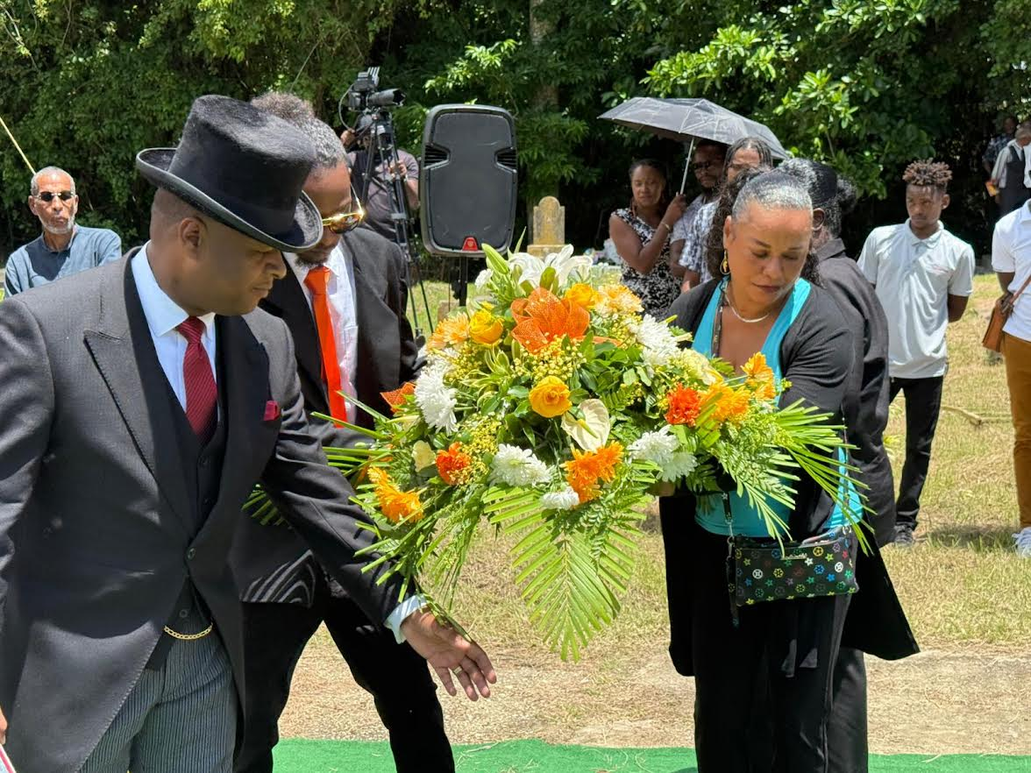
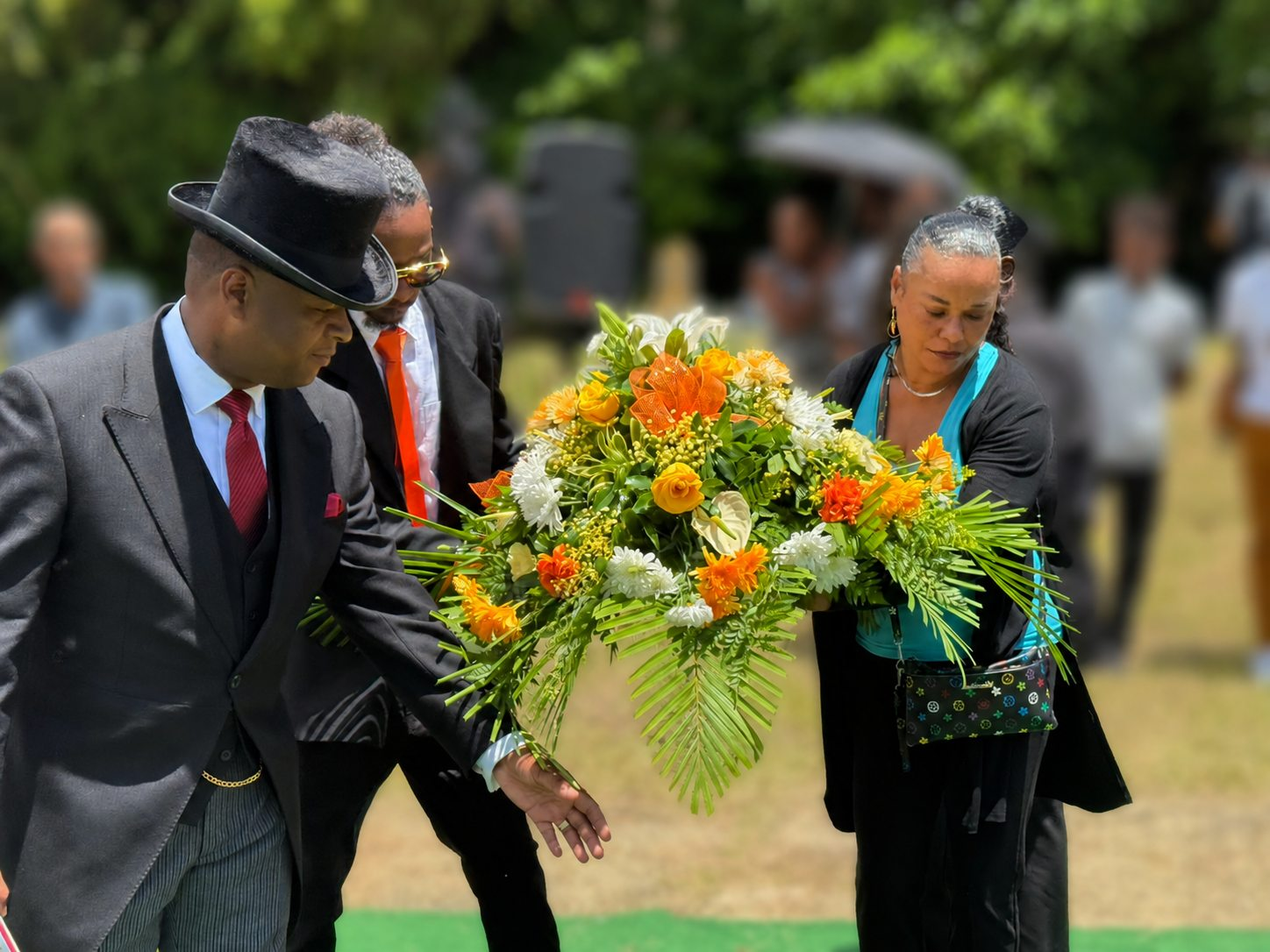
Rebuild casket collection from Sterling's catalogue
Replace the placeholder casket grid with the eight caskets Sterling
actually supplies, in the order the client listed them, each opening
into a lightbox that steps through every finish and angle:

- Gardiner Basic Highlighted Coffin (highlighted, then cherry)
- Alleyne Exquisite Semi Casket (cherry DSC1145, then white)
- Blue & White Flat Top (DSC1139, then cherry DSC1114)
- Barbadian Flat Top Special (cherry with flowers, open, interior)
- Alleyne Special Square Casket (green and white)
- Alleyne Octagon Casket (lilac and purple, cherry with copper handles)
- Local Oval Top Caskets
- Imported Beaded Mahogany Casket

Twenty of the source photographs were incompletely synced and lose
their bottom rows, so those are cropped to the intact area; DSC1122,
1133, 1658, 1662, 1666 and 1668 were too damaged to use.

Also swap in the retouched wreath-laying and committal photographs,
replace the low-resolution services hero with the procession portrait,
correct the spelling of Sheradan Lewis, and lift every burgundy in the
palette by the same curve so the site reads a shade lighter throughout.

diff --git a/caskets.html b/caskets.html
@@ -10,7 +10,7 @@
 <link rel="stylesheet" href="css/styles.css" />
 <meta property="og:title" content="Casket Collection | Sterling Funeral Services" />
 <meta property="og:description" content="View representative casket styles and contact Sterling Funeral Services for current selections and guidance." />
-<meta property="og:image" content="images/caskets/deep-wine.jpg" />
+<meta property="og:image" content="images/caskets/alleyne-octagon-cherry.jpg" />
 <meta name="twitter:card" content="summary_large_image" />
 </head>
 <body>
@@ -43,7 +43,7 @@
 </div>
 <main>
 <section class="page-hero">
-<div class="page-hero-image" style="background-image:url('images/caskets/deep-wine.jpg')"></div>
+<div class="page-hero-image" style="background-image:url('images/caskets/alleyne-octagon-cherry.jpg')"></div>
 <div class="page-hero-shade"></div>
 <div class="page-hero-content">
 <p class="eyebrow light">Casket Collection</p>
@@ -53,7 +53,7 @@
 </section>
 <section class="page-body casket-page">
 <div class="collection-note"><strong>Sterling collection:</strong> These photographs show representative caskets supplied by Sterling. Please contact us to confirm current finishes, specifications, availability and pricing.</div>
-<div class="casket-grid"><article class="casket-card" data-images="images/caskets/deep-wine.jpg|images/caskets/deep-wine-open.jpg"><div class="casket-image"><img src="images/caskets/deep-wine.jpg" alt="Deep Wine Finish casket" /><span>Sterling collection</span></div><div class="casket-info"><div><h3>Deep Wine Finish</h3><p>Polished deep-wine finish &middot; Gold-tone hardware</p></div><a href="https://wa.me/12462349195?text=Hello%20Sterling%2C%20I%20would%20like%20information%20about%20the%20Deep%20Wine%20Finish%20casket%20style." target="_blank" rel="noreferrer" aria-label="Ask about Deep Wine Finish">&#8599;</a></div></article><article class="casket-card" data-images="images/caskets/classic-burgundy.jpg|images/caskets/classic-burgundy-open.jpg"><div class="casket-image"><img src="images/caskets/classic-burgundy.jpg" alt="Classic Burgundy Finish casket" /><span>Sterling collection</span></div><div class="casket-info"><div><h3>Classic Burgundy Finish</h3><p>Rich burgundy finish &middot; Decorative gold-tone hardware</p></div><a href="https://wa.me/12462349195?text=Hello%20Sterling%2C%20I%20would%20like%20information%20about%20the%20Classic%20Burgundy%20Finish%20casket%20style." target="_blank" rel="noreferrer" aria-label="Ask about Classic Burgundy Finish">&#8599;</a></div></article><article class="casket-card" data-images="images/caskets/natural-wood.jpg|images/caskets/natural-wood-open.jpg"><div class="casket-image"><img src="images/caskets/natural-wood.jpg" alt="Natural Wood Finish casket" /><span>Sterling collection</span></div><div class="casket-info"><div><h3>Natural Wood Finish</h3><p>Warm natural grain &middot; Gold-tone hardware</p></div><a href="https://wa.me/12462349195?text=Hello%20Sterling%2C%20I%20would%20like%20information%20about%20the%20Natural%20Wood%20Finish%20casket%20style." target="_blank" rel="noreferrer" aria-label="Ask about Natural Wood Finish">&#8599;</a></div></article><article class="casket-card" data-images="images/caskets/rich-mahogany.jpg|images/caskets/rich-mahogany-open.jpg"><div class="casket-image"><img src="images/caskets/rich-mahogany.jpg" alt="Rich Mahogany Finish casket" /><span>Sterling collection</span></div><div class="casket-info"><div><h3>Rich Mahogany Finish</h3><p>Deep mahogany finish &middot; Gold-tone hardware</p></div><a href="https://wa.me/12462349195?text=Hello%20Sterling%2C%20I%20would%20like%20information%20about%20the%20Rich%20Mahogany%20Finish%20casket%20style." target="_blank" rel="noreferrer" aria-label="Ask about Rich Mahogany Finish">&#8599;</a></div></article><article class="casket-card" data-images="images/caskets/blue-ivory.jpg"><div class="casket-image"><img src="images/caskets/blue-ivory.jpg" alt="Blue &amp; Ivory Finish casket" /><span>Sterling collection</span></div><div class="casket-info"><div><h3>Blue &amp; Ivory Finish</h3><p>Blue and ivory finish &middot; Silver-tone hardware</p></div><a href="https://wa.me/12462349195?text=Hello%20Sterling%2C%20I%20would%20like%20information%20about%20the%20Blue%20%26amp%3B%20Ivory%20Finish%20casket%20style." target="_blank" rel="noreferrer" aria-label="Ask about Blue &amp; Ivory Finish">&#8599;</a></div></article><article class="casket-card" data-images="images/caskets/ruby-red.jpg|images/caskets/ruby-red-open.jpg"><div class="casket-image"><img src="images/caskets/ruby-red.jpg" alt="Ruby Red Finish casket" /><span>Sterling collection</span></div><div class="casket-info"><div><h3>Ruby Red Finish</h3><p>Vivid ruby-red finish &middot; Gold-tone hardware</p></div><a href="https://wa.me/12462349195?text=Hello%20Sterling%2C%20I%20would%20like%20information%20about%20the%20Ruby%20Red%20Finish%20casket%20style." target="_blank" rel="noreferrer" aria-label="Ask about Ruby Red Finish">&#8599;</a></div></article><article class="casket-card" data-images="images/caskets/purple.jpg"><div class="casket-image"><img src="images/caskets/purple.jpg" alt="Purple Finish casket" /><span>Sterling collection</span></div><div class="casket-info"><div><h3>Purple Finish</h3><p>Purple finish &middot; Silver-tone hardware</p></div><a href="https://wa.me/12462349195?text=Hello%20Sterling%2C%20I%20would%20like%20information%20about%20the%20Purple%20Finish%20casket%20style." target="_blank" rel="noreferrer" aria-label="Ask about Purple Finish">&#8599;</a></div></article><article class="casket-card" data-images="images/caskets/traditional-mahogany.jpg|images/caskets/traditional-mahogany-open.jpg"><div class="casket-image"><img src="images/caskets/traditional-mahogany.jpg" alt="Traditional Mahogany Finish casket" /><span>Sterling collection</span></div><div class="casket-info"><div><h3>Traditional Mahogany Finish</h3><p>Deep wood finish &middot; Traditional detailing</p></div><a href="https://wa.me/12462349195?text=Hello%20Sterling%2C%20I%20would%20like%20information%20about%20the%20Traditional%20Mahogany%20Finish%20casket%20style." target="_blank" rel="noreferrer" aria-label="Ask about Traditional Mahogany Finish">&#8599;</a></div></article><article class="casket-card" data-images="images/caskets/white.jpg"><div class="casket-image"><img src="images/caskets/white.jpg" alt="White Finish casket" /><span>Sterling collection</span></div><div class="casket-info"><div><h3>White Finish</h3><p>White finish &middot; Gold-tone hardware</p></div><a href="https://wa.me/12462349195?text=Hello%20Sterling%2C%20I%20would%20like%20information%20about%20the%20White%20Finish%20casket%20style." target="_blank" rel="noreferrer" aria-label="Ask about White Finish">&#8599;</a></div></article><article class="casket-card" data-images="images/caskets/green-ivory.jpg|images/caskets/green-ivory-open.jpg"><div class="casket-image"><img src="images/caskets/green-ivory.jpg" alt="Green &amp; Ivory Finish casket" /><span>Sterling collection</span></div><div class="casket-info"><div><h3>Green &amp; Ivory Finish</h3><p>Green and ivory finish &middot; Silver-tone hardware</p></div><a href="https://wa.me/12462349195?text=Hello%20Sterling%2C%20I%20would%20like%20information%20about%20the%20Green%20%26amp%3B%20Ivory%20Finish%20casket%20style." target="_blank" rel="noreferrer" aria-label="Ask about Green &amp; Ivory Finish">&#8599;</a></div></article></div>
+<div class="casket-grid"><article class="casket-card" data-images="images/caskets/gardiner-highlighted.jpg|images/caskets/gardiner-highlighted-2.jpg|images/caskets/gardiner-highlighted-open.jpg|images/caskets/gardiner-highlighted-detail.jpg|images/caskets/gardiner-cherry.jpg|images/caskets/gardiner-cherry-open.jpg"><div class="casket-image"><img src="images/caskets/gardiner-highlighted.jpg" alt="Gardiner Basic Highlighted Coffin" loading="lazy" /><span>Sterling collection</span></div><div class="casket-info"><div><h3>Gardiner Basic Highlighted Coffin</h3><p>Highlighted two-tone finish · Also shown in cherry finish</p></div><a href="https://wa.me/12462349195?text=Hello%20Sterling%2C%20I%20would%20like%20information%20about%20the%20Gardiner%20Basic%20Highlighted%20Coffin." target="_blank" rel="noreferrer" aria-label="Ask about Gardiner Basic Highlighted Coffin">&#8599;</a></div></article><article class="casket-card" data-images="images/caskets/alleyne-exquisite-cherry.jpg|images/caskets/alleyne-exquisite-cherry-2.jpg|images/caskets/alleyne-exquisite-cherry-3.jpg|images/caskets/alleyne-exquisite-cherry-open.jpg|images/caskets/alleyne-exquisite-white.jpg"><div class="casket-image"><img src="images/caskets/alleyne-exquisite-cherry.jpg" alt="Alleyne Exquisite Semi Casket" loading="lazy" /><span>Sterling collection</span></div><div class="casket-info"><div><h3>Alleyne Exquisite Semi Casket</h3><p>Cherry finish · Also available in white</p></div><a href="https://wa.me/12462349195?text=Hello%20Sterling%2C%20I%20would%20like%20information%20about%20the%20Alleyne%20Exquisite%20Semi%20Casket." target="_blank" rel="noreferrer" aria-label="Ask about Alleyne Exquisite Semi Casket">&#8599;</a></div></article><article class="casket-card" data-images="images/caskets/flat-top-blue-white.jpg|images/caskets/flat-top-blue-white-2.jpg|images/caskets/flat-top-blue-white-detail.jpg|images/caskets/flat-top-cherry.jpg|images/caskets/flat-top-cherry-open.jpg|images/caskets/flat-top-cherry-detail.jpg"><div class="casket-image"><img src="images/caskets/flat-top-blue-white.jpg" alt="Blue &amp; White Flat Top" loading="lazy" /><span>Sterling collection</span></div><div class="casket-info"><div><h3>Blue &amp; White Flat Top</h3><p>One of the most popular choices in Barbados · Also shown in cherry finish</p></div><a href="https://wa.me/12462349195?text=Hello%20Sterling%2C%20I%20would%20like%20information%20about%20the%20Blue%20%26%20White%20Flat%20Top." target="_blank" rel="noreferrer" aria-label="Ask about Blue &amp; White Flat Top">&#8599;</a></div></article><article class="casket-card" data-images="images/caskets/flat-top-special-cherry.jpg|images/caskets/flat-top-special-open.jpg|images/caskets/flat-top-special-interior.jpg"><div class="casket-image"><img src="images/caskets/flat-top-special-cherry.jpg" alt="Barbadian Flat Top Special" loading="lazy" /><span>Sterling collection</span></div><div class="casket-info"><div><h3>Barbadian Flat Top Special</h3><p>Cherry finish · Sunburst interior · Gold-tone hardware</p></div><a href="https://wa.me/12462349195?text=Hello%20Sterling%2C%20I%20would%20like%20information%20about%20the%20Barbadian%20Flat%20Top%20Special." target="_blank" rel="noreferrer" aria-label="Ask about Barbadian Flat Top Special">&#8599;</a></div></article><article class="casket-card" data-images="images/caskets/alleyne-square-green-white.jpg"><div class="casket-image"><img src="images/caskets/alleyne-square-green-white.jpg" alt="Alleyne Special Square Casket" loading="lazy" /><span>Sterling collection</span></div><div class="casket-info"><div><h3>Alleyne Special Square Casket</h3><p>Green and white finish · Silver-tone hardware</p></div><a href="https://wa.me/12462349195?text=Hello%20Sterling%2C%20I%20would%20like%20information%20about%20the%20Alleyne%20Special%20Square%20Casket." target="_blank" rel="noreferrer" aria-label="Ask about Alleyne Special Square Casket">&#8599;</a></div></article><article class="casket-card" data-images="images/caskets/alleyne-octagon-lilac-open.jpg|images/caskets/alleyne-octagon-lilac-open-2.jpg|images/caskets/alleyne-octagon-cherry.jpg|images/caskets/alleyne-octagon-cherry-2.jpg|images/caskets/alleyne-octagon-cherry-open.jpg|images/caskets/alleyne-octagon-cherry-open-2.jpg|images/caskets/alleyne-octagon-cherry-detail.jpg"><div class="casket-image"><img src="images/caskets/alleyne-octagon-lilac-open.jpg" alt="Alleyne Octagon Casket" loading="lazy" /><span>Sterling collection</span></div><div class="casket-info"><div><h3>Alleyne Octagon Casket</h3><p>Lilac and purple · Also shown in cherry with copper handles</p></div><a href="https://wa.me/12462349195?text=Hello%20Sterling%2C%20I%20would%20like%20information%20about%20the%20Alleyne%20Octagon%20Casket." target="_blank" rel="noreferrer" aria-label="Ask about Alleyne Octagon Casket">&#8599;</a></div></article><article class="casket-card" data-images="images/caskets/oval-top-mahogany.jpg|images/caskets/oval-top-white.jpg|images/caskets/oval-top-purple-gold.jpg"><div class="casket-image"><img src="images/caskets/oval-top-mahogany.jpg" alt="Local Oval Top Caskets" loading="lazy" /><span>Sterling collection</span></div><div class="casket-info"><div><h3>Local Oval Top Caskets</h3><p>Locally crafted oval top · Mahogany, white and purple finishes</p></div><a href="https://wa.me/12462349195?text=Hello%20Sterling%2C%20I%20would%20like%20information%20about%20the%20Local%20Oval%20Top%20Caskets." target="_blank" rel="noreferrer" aria-label="Ask about Local Oval Top Caskets">&#8599;</a></div></article><article class="casket-card" data-images="images/caskets/beaded-mahogany.jpg|images/caskets/beaded-mahogany-open.jpg|images/caskets/beaded-mahogany-detail.jpg"><div class="casket-image"><img src="images/caskets/beaded-mahogany.jpg" alt="Imported Beaded Mahogany Casket" loading="lazy" /><span>Sterling collection</span></div><div class="casket-info"><div><h3>Imported Beaded Mahogany Casket</h3><p>Imported mahogany · Hand-beaded detailing · Gold-tone hardware</p></div><a href="https://wa.me/12462349195?text=Hello%20Sterling%2C%20I%20would%20like%20information%20about%20the%20Imported%20Beaded%20Mahogany%20Casket." target="_blank" rel="noreferrer" aria-label="Ask about Imported Beaded Mahogany Casket">&#8599;</a></div></article></div>
 </section>
 <div id="casket-lightbox" class="lightbox" aria-hidden="true">
 <div class="lightbox-backdrop"></div>

diff --git a/css/styles.css b/css/styles.css
@@ -1,5 +1,5 @@
 @import url('https://fonts.googleapis.com/css2?family=DM+Sans:wght@300;400;500;600&family=Playfair+Display:ital,wght@0,500;1,500&display=swap');
-:root{--wine:#4a0d1c;--wine-deep:#26050d;--wine-soft:#6c1a2d;--ink:#2b171b;--gold:#c5a15a;--gold-light:#e1ca96;--cream:#f2ece4;--paper:#fbf8f4;--muted:#76686a}
+:root{--wine:#67182d;--wine-deep:#3a0f1a;--wine-soft:#932a43;--ink:#2b171b;--gold:#c5a15a;--gold-light:#e1ca96;--cream:#f2ece4;--paper:#fbf8f4;--muted:#76686a}
 *{box-sizing:border-box}
 html{scroll-behavior:smooth}
 body{margin:0;color:var(--ink);background:var(--paper);font-family:'DM Sans',Arial,sans-serif;font-weight:300}
@@ -11,7 +11,7 @@ img{max-width:100%}
 .topbar{height:35px;padding:0 5vw;display:flex;align-items:center;justify-content:center;gap:35px;color:#d9c9cc;background:var(--wine-deep);font-size:10px;letter-spacing:.09em;text-transform:uppercase}
 .topbar p{margin:0}
 .topbar a{color:var(--gold-light)}
-.site-header{height:92px;padding:0 5vw;display:flex;align-items:center;justify-content:space-between;background:rgba(74,13,28,.99);color:white;position:relative;z-index:20;border-bottom:1px solid rgba(255,255,255,.1)}
+.site-header{height:92px;padding:0 5vw;display:flex;align-items:center;justify-content:space-between;background:rgba(103,26,45,.99);color:white;position:relative;z-index:20;border-bottom:1px solid rgba(255,255,255,.1)}
 .brand{display:flex;align-items:center;min-width:200px}
 .brand-logo{height:48px;width:auto;display:block}
 .desktop-nav{display:flex;gap:2.1vw;align-items:center}
@@ -41,10 +41,10 @@ h1 em,h2 em{color:var(--gold-light);font-weight:500}
 
 /* hero */
 .hero{min-height:680px;height:calc(100vh - 127px);color:white;position:relative;display:flex;align-items:center;overflow:hidden;border-bottom:4px solid #b88a43}
-.hero:after{content:"";position:absolute;inset:auto 0 0;height:180px;background:linear-gradient(0deg,rgba(31,2,9,.42),transparent);pointer-events:none}
+.hero:after{content:"";position:absolute;inset:auto 0 0;height:180px;background:linear-gradient(0deg,rgba(49,12,21,.42),transparent);pointer-events:none}
 .hero-image,.hero-shade{position:absolute;inset:0}
 .hero-image{background:url('../images/sterling-home-banner.webp') center/cover;transform:scale(1.015);filter:saturate(.9) contrast(1.03)}
-.hero-shade{background:radial-gradient(circle at 92% 43%,rgba(197,161,90,.08),transparent 16%),linear-gradient(90deg,rgba(39,2,11,.995) 0%,rgba(63,8,22,.995) 80%,rgba(55,6,19,.84) 88%,rgba(42,3,13,.2) 98%),linear-gradient(0deg,rgba(39,2,11,.38),transparent 55%)}
+.hero-shade{background:radial-gradient(circle at 92% 43%,rgba(197,161,90,.08),transparent 16%),linear-gradient(90deg,rgba(59,12,23,.995) 0%,rgba(90,19,37,.995) 80%,rgba(79,17,33,.84) 88%,rgba(63,13,26,.2) 98%),linear-gradient(0deg,rgba(59,12,23,.38),transparent 55%)}
 .hero-frame{position:absolute;z-index:2;inset:24px;border:1px solid rgba(225,202,150,.42);pointer-events:none}
 .hero-frame:before,.hero-frame:after{content:"";position:absolute;width:54px;height:54px;border-color:#d5b56e}
 .hero-frame:before{top:-1px;left:-1px;border-top:2px solid;border-left:2px solid}
@@ -55,7 +55,7 @@ h1 em,h2 em{color:var(--gold-light);font-weight:500}
 .hero-actions{display:flex;gap:14px;align-items:center;flex-wrap:wrap}
 .hero-actions .page-link{font-size:9px;text-transform:uppercase;letter-spacing:.14em;margin-left:10px;border-bottom:1px solid var(--gold);padding:12px 0}
 .hero-actions .page-link span{color:var(--gold-light);margin-left:14px}
-.hero-monogram{position:absolute;z-index:3;right:max(8vw,calc((100vw - 1180px)/2));top:50%;width:188px;height:188px;border:1px solid rgba(225,202,150,.68);border-radius:50%;transform:translateY(-50%);display:flex;flex-direction:column;align-items:center;justify-content:center;background:rgba(45,3,13,.18);box-shadow:0 0 0 11px rgba(255,255,255,.035),inset 0 0 50px rgba(37,0,9,.28);backdrop-filter:blur(2px)}
+.hero-monogram{position:absolute;z-index:3;right:max(8vw,calc((100vw - 1180px)/2));top:50%;width:188px;height:188px;border:1px solid rgba(225,202,150,.68);border-radius:50%;transform:translateY(-50%);display:flex;flex-direction:column;align-items:center;justify-content:center;background:rgba(67,13,26,.18);box-shadow:0 0 0 11px rgba(255,255,255,.035),inset 0 0 50px rgba(56,9,21,.28);backdrop-filter:blur(2px)}
 .hero-monogram:before,.hero-monogram:after{content:"";position:absolute;top:50%;width:38px;height:1px;background:#d7b36a}
 .hero-monogram:before{left:-19px}
 .hero-monogram:after{right:-19px}
@@ -90,7 +90,7 @@ h1 em,h2 em{color:var(--gold-light);font-weight:500}
 .page-hero{min-height:475px;color:white;position:relative;display:flex;align-items:center;overflow:hidden}
 .page-hero-image,.page-hero-shade{position:absolute;inset:0}
 .page-hero-image{background-size:cover;background-position:center;filter:saturate(.65)}
-.page-hero-shade{background:linear-gradient(90deg,rgba(48,4,14,.95),rgba(74,13,28,.68) 55%,rgba(74,13,28,.2))}
+.page-hero-shade{background:linear-gradient(90deg,rgba(70,14,27,.95),rgba(103,26,45,.68) 55%,rgba(103,26,45,.2))}
 .page-hero-content{width:90%;max-width:1280px;margin:0 auto;position:relative;z-index:2}
 .page-hero-content p:last-child{max-width:560px;color:#eadfe1;line-height:1.8;font-size:14px;margin:25px 0 0}
 .page-body{padding:100px max(5vw,calc((100vw - 1180px)/2))}
@@ -121,7 +121,7 @@ h1 em,h2 em{color:var(--gold-light);font-weight:500}
 .casket-image{height:300px;overflow:hidden;position:relative;background:linear-gradient(145deg,#f7f2eb,#ebe0d4)}
 .casket-image img{width:100%;height:100%;object-fit:contain;object-position:center;display:block;transition:transform .35s ease}
 .casket-card:hover .casket-image img{transform:scale(1.025)}
-.casket-image span{position:absolute;top:18px;left:18px;background:rgba(74,13,28,.9);color:#fff;padding:8px 11px;text-transform:uppercase;font-size:7px;letter-spacing:.16em}
+.casket-image span{position:absolute;top:18px;left:18px;background:rgba(103,26,45,.9);color:#fff;padding:8px 11px;text-transform:uppercase;font-size:7px;letter-spacing:.16em}
 .casket-info{padding:24px;border:1px solid #ddd1ca;border-top:0;display:flex;justify-content:space-between;align-items:center}
 .casket-info h3{font:500 20px 'Playfair Display',serif;margin:0}
 .casket-info p{font-size:10px;color:var(--muted);margin:7px 0 0}
@@ -129,12 +129,12 @@ h1 em,h2 em{color:var(--gold-light);font-weight:500}
 .casket-image{cursor:pointer}
 .lightbox{position:fixed;inset:0;z-index:100;display:none;align-items:center;justify-content:center;padding:24px}
 .lightbox.open{display:flex}
-.lightbox-backdrop{position:absolute;inset:0;background:rgba(20,2,7,.88)}
+.lightbox-backdrop{position:absolute;inset:0;background:rgba(35,12,18,.88)}
 .lightbox-inner{position:relative;z-index:1;width:min(880px,92vw);max-height:92vh;overflow:auto;background:var(--paper);box-shadow:0 30px 80px rgba(0,0,0,.5)}
-.lightbox-close{position:absolute;top:14px;right:14px;z-index:2;width:38px;height:38px;border:1px solid rgba(255,255,255,.5);background:rgba(20,2,7,.55);color:#fff;font-size:20px;line-height:1;border-radius:50%;cursor:pointer}
+.lightbox-close{position:absolute;top:14px;right:14px;z-index:2;width:38px;height:38px;border:1px solid rgba(255,255,255,.5);background:rgba(35,12,18,.55);color:#fff;font-size:20px;line-height:1;border-radius:50%;cursor:pointer}
 .lightbox-image{background:linear-gradient(145deg,#f7f2eb,#ebe0d4);display:grid;place-items:center;min-height:340px;padding:20px}
 .lightbox-image img{max-width:100%;max-height:56vh;object-fit:contain}
-.lightbox-prev,.lightbox-next{position:absolute;top:calc(28vh + 20px);transform:translateY(-50%);z-index:2;width:44px;height:44px;border-radius:50%;border:1px solid rgba(255,255,255,.6);background:rgba(20,2,7,.55);color:#fff;font-size:18px;cursor:pointer}
+.lightbox-prev,.lightbox-next{position:absolute;top:calc(28vh + 20px);transform:translateY(-50%);z-index:2;width:44px;height:44px;border-radius:50%;border:1px solid rgba(255,255,255,.6);background:rgba(35,12,18,.55);color:#fff;font-size:18px;cursor:pointer}
 .lightbox-prev{left:14px}
 .lightbox-next{right:14px}
 .lightbox-caption{padding:26px 30px 30px;text-align:center}
@@ -174,7 +174,7 @@ h1 em,h2 em{color:var(--gold-light);font-weight:500}
 
 /* obituaries (static, no records yet) */
 .obituary-index{background:var(--cream)}
-.obituary-empty{margin-top:48px;padding:70px 30px;border:1px solid rgba(83,0,24,.16);background:rgba(255,255,255,.58);text-align:center}
+.obituary-empty{margin-top:48px;padding:70px 30px;border:1px solid rgba(115,9,40,.16);background:rgba(255,255,255,.58);text-align:center}
 .obituary-empty span{display:grid;place-items:center;width:66px;height:74px;margin:0 auto 24px;border:1px solid var(--gold);color:var(--wine);font-family:Georgia,serif;font-size:38px}
 .obituary-empty h3{margin-bottom:10px;color:var(--wine);font-family:Georgia,serif;font-size:27px;font-weight:500}
 .obituary-empty p{color:var(--muted)}
@@ -190,7 +190,7 @@ h1 em,h2 em{color:var(--gold-light);font-weight:500}
 .memorial-page{background:var(--paper)}
 .memorial-intro{min-height:530px;padding:75px max(5vw,calc((100vw - 1180px)/2));display:grid;grid-template-columns:380px 1fr;gap:8vw;align-items:center;background:linear-gradient(120deg,var(--wine-deep),var(--wine));color:white;position:relative}
 .memorial-back{position:absolute;top:34px;left:max(5vw,calc((100vw - 1180px)/2));color:#d5c4c7;font-size:9px;text-transform:uppercase;letter-spacing:.14em}
-.memorial-portrait{height:460px;border:1px solid rgba(225,202,150,.55);background:#3a0915;box-shadow:18px 18px 0 rgba(197,161,90,.12);overflow:hidden}
+.memorial-portrait{height:460px;border:1px solid rgba(225,202,150,.55);background:#531524;box-shadow:18px 18px 0 rgba(197,161,90,.12);overflow:hidden}
 .memorial-portrait img{width:100%;height:100%;object-fit:contain;object-position:center}
 .memorial-heading h1{font-size:clamp(38px,5vw,60px)}
 .memorial-dates{color:var(--gold-light);font:italic 18px 'Playfair Display',serif;margin-top:24px}
@@ -221,14 +221,14 @@ footer{background:var(--wine-deep);color:#bfaeb1;padding:75px max(5vw,calc((100v
 .footer-main h4{color:var(--gold-light);text-transform:uppercase;letter-spacing:.18em;font-size:9px;margin:7px 0 22px}
 .footer-main>div:not(.footer-brand) a,.footer-main>div:not(.footer-brand) p{display:block;color:#bfaeb1;font-size:10px;line-height:2;margin:0}
 .footer-main .footer-whatsapp{color:var(--gold-light)!important;margin-top:10px!important}
-.footer-bottom{border-top:1px solid #4b2730;padding-top:22px;display:flex;justify-content:space-between;font-size:8px;text-transform:uppercase;letter-spacing:.09em;color:#8e7379}
+.footer-bottom{border-top:1px solid #693b46;padding-top:22px;display:flex;justify-content:space-between;font-size:8px;text-transform:uppercase;letter-spacing:.09em;color:#a08a90}
 
 @media(max-width:1000px){
   .desktop-nav,.header-call{display:none}
   .menu-button{display:block}
   .mobile-menu{display:block;position:fixed;z-index:15;inset:127px 0 0;background:var(--wine);color:white;padding:35px 6vw;opacity:0;visibility:hidden;transform:translateY(-15px);transition:.3s}
   .mobile-menu.open{opacity:1;visibility:visible;transform:none}
-  .mobile-menu nav a{display:flex;justify-content:space-between;padding:16px 0;border-bottom:1px solid #733448;font:23px 'Playfair Display',serif}
+  .mobile-menu nav a{display:flex;justify-content:space-between;padding:16px 0;border-bottom:1px solid #9c4c65;font:23px 'Playfair Display',serif}
   .mobile-menu nav a.active{color:var(--gold-light)}
   .mobile-menu .button{margin-top:32px}
   .hero-monogram{right:6vw;width:150px;height:150px}
@@ -252,7 +252,7 @@ footer{background:var(--wine-deep);color:#bfaeb1;padding:75px max(5vw,calc((100v
   .hero-content{width:auto;margin:0 25px}
   .hero-content h1{font-size:clamp(46px,14vw,62px)}
   .hero-image{background-position:80% center}
-  .hero-shade{background:linear-gradient(90deg,rgba(43,2,12,.98),rgba(69,10,25,.9)),linear-gradient(0deg,rgba(39,2,11,.42),transparent 55%)}
+  .hero-shade{background:linear-gradient(90deg,rgba(64,12,24,.98),rgba(97,22,41,.9)),linear-gradient(0deg,rgba(59,12,23,.42),transparent 55%)}
   .hero-frame{inset:12px}
   .hero-monogram{display:none}
   .hero-service-note{right:auto;left:25px;bottom:29px;letter-spacing:.17em}

diff --git a/about.html b/about.html
@@ -63,11 +63,11 @@
 <article class="value-card"><span>03</span><h3>Integrity</h3><p>Clear guidance and conscientious service are central to the way Sterling supports the community.</p></article>
 </div>
 <div class="split-feature">
-<div class="feature-image" style="background-image:url('images/gallery/directors-portrait.jpg');background-position:center 12%" role="img" aria-label="Mr &amp; Mrs Sheridan Lewis, Proprietors of Sterling Funeral Services"></div>
+<div class="feature-image" style="background-image:url('images/gallery/directors-portrait.jpg');background-position:center 12%" role="img" aria-label="Mr &amp; Mrs Sheradan Lewis, Proprietors of Sterling Funeral Services"></div>
 <div class="split-copy">
 <p class="eyebrow">Leadership</p>
 <h2>Professional care,<br/><em>personally led.</em></h2>
-<p><strong>Mr &amp; Mrs Sheridan Lewis</strong><br/>Proprietors</p>
+<p><strong>Mr &amp; Mrs Sheradan Lewis</strong><br/>Proprietors</p>
 <p>Licensed Funeral Director, Embalmer and Undertaker.</p>
 <p>Sterling proudly serves families across Barbados.</p>
 </div>
